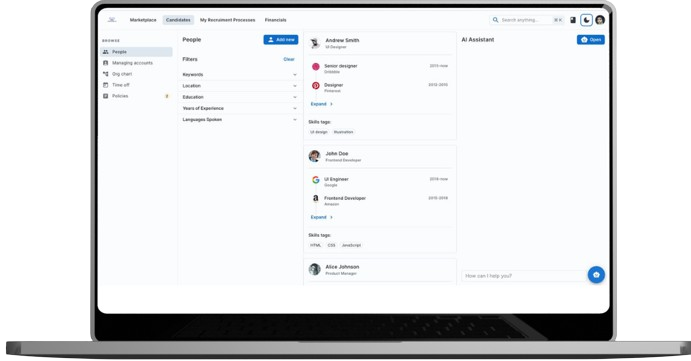
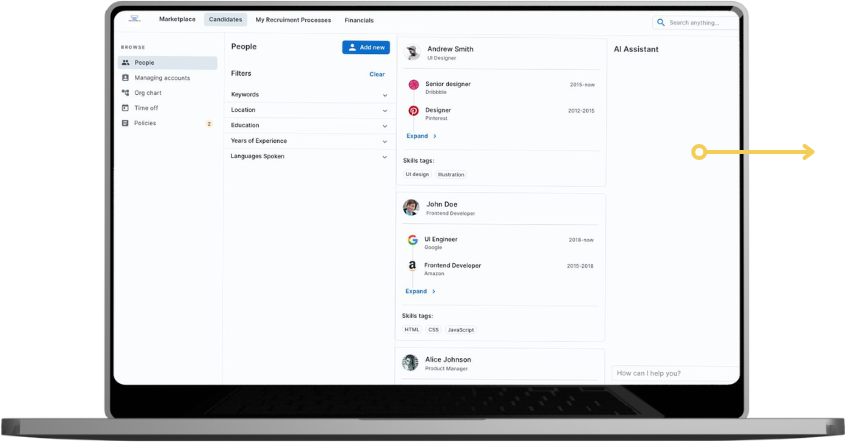
update

diff --git a/src/components/Hero/Hero.js b/src/components/Hero/Hero.js
@@ -12,69 +12,6 @@ const Hero = () => {
     Aos.init();
   }, []);
 
-  // const [isOpen, setIsOpen] = useState(false);
-  // const [isTeleOpen, setTeleIsOpen] = useState(false);
-  // const [selectedOption, setSelectedOption] = useState("");
-  // const [selectedTeleOption, setSelectedTeleOption] = useState("");
-
-  // const [isCountryOpen, setIsCountryOpen] = useState("");
-  // const [selectedCountryOption, setSelectedCountryOption] = useState("");
-
-  // const dropdownRef = useRef(null);
-  // const codeRef = useRef(null);
-  // const countryRef = useRef(null);
-
-  // const options = [
-  //   "Reclutador independiente",
-  //   "Empresa de reclutamiento",
-  //   "Reclutador interno de empresa",
-  // ];
-
-  // const handleDropdownClick = () => {
-  //   setIsOpen(!isOpen);
-  // };
-
-  // const handleOptionClick = (option) => {
-  //   setSelectedOption(option);
-  //   setIsOpen(false);
-  // };
-
-  // // Coutry Code Dropdown
-  // const coutryCode = ["+54", "+56", "+57", "+52", "+51", "+598", "+1", "+43"];
-
-  // const handleCodeDropdownClick = () => {
-  //   setTeleIsOpen(!isOpen);
-  // };
-
-  // const handleCodeOptionClick = (option) => {
-  //   setSelectedTeleOption(option);
-  //   setTeleIsOpen(false);
-  // };
-
-  // // Coutry Dropdown
-  // const coutry = ["+92", "+101", "+463"];
-
-  // const handleCountryDropdownClick = () => {
-  //   setIsCountryOpen(!isOpen);
-  // };
-
-  // const handleCountryOptionClick = (option) => {
-  //   setSelectedCountryOption(option);
-  //   setIsCountryOpen(false);
-  // };
-
-  // const handleClickOutside = (event) => {
-  //   if (dropdownRef.current && !dropdownRef.current.contains(event.target)) {
-  //     setIsOpen(false);
-  //   }
-  // };
-
-  // useEffect(() => {
-  //   document.addEventListener("mousedown", handleClickOutside);
-  //   return () => {
-  //     document.removeEventListener("mousedown", handleClickOutside);
-  //   };
-  // }, []);
 
   const [selectedCoutryCode, setSelectedCoutryCode] = useState("");
   const [isCountryCodeOpen, setIsCountryCodeOpen] = useState(false);
@@ -188,7 +125,7 @@ const Hero = () => {
 
         {/* Form  */}
         <div
-          className="w-full sm:w-4/6 lg:w-1/2 bg-[#d9d9d9] rounded-2xl p-3"
+          className="w-full sm:w-4/6 lg:w-1/2 bg-[#d9d9d9] bg-opacity-50 rounded-2xl p-3"
           data-aos="fade-up"
           data-aos-duration="300"
         >
@@ -357,14 +294,14 @@ const Hero = () => {
               </div>
             </div>
 
-            <button className="bg-yellow-100 font-bold text-lg text-center h-12 tracking-[.2em] mt-3 w-full rounded-xl text-white uppercase">
-              Submit
+            <button className="bg-yellow-100 hover:bg-yellow-500 transition duration-500 font-bold text-lg text-center h-12 tracking-[.2em] mt-3 w-full rounded-xl text-white uppercase">
+              Enviar
             </button>
           </form>
 
           <div className="bg-blue-100 rounded-xl text-base md:text-[25px] leading-[1.37085934em] text-center text-white px-10 md:px-20 py-3 md:py-5 mt-5 w-fit lg:w-full mx-auto">
             Conviértete en
-            <strong className="text-yellow-100 font-normal">
+            <strong className="text-yellow-100 font-normal mx-1">
               Early Partner
             </strong>
             y obtén increíbles beneficios
@@ -372,14 +309,14 @@ const Hero = () => {
         </div>
       </div>
 
-      <div className="flex flex-col lg:flex-row justify-between gap-3 border-y border-y-yellow-100 py-5 mt-10">
-        <span className="text-[31px] font-extrabold text-blue-100">
+      <div className="flex flex-col lg:flex-row justify-between gap-2 border-y border-y-yellow-100 py-5 mt-10 max-w-[1190px] w-full mx-auto">
+        <span className="text-[30px] md:text-[32px] xxl:text-[35px] font-extrabold text-blue-100">
           ATS fácil de usar<span className="text-yellow-100">.</span>
         </span>
-        <span className="text-[23px] md:text-[31px] font-extrabold text-blue-100">
+        <span className="text-[23px] md:text-[32px] xxl:text-[35px] font-extrabold text-blue-100">
           Agentes IA especializados<span className="text-yellow-100">.</span>
         </span>
-        <span className="text-[23px] md:text-[31px] font-extrabold text-blue-100">
+        <span className="text-[23px] md:text-[32px] xxl:text-[35px] font-extrabold text-blue-100">
           Oportunidades de negocio<span className="text-yellow-100">.</span>
         </span>
       </div>

diff --git a/src/components/Experience/Experience.js b/src/components/Experience/Experience.js
@@ -13,12 +13,12 @@ const Experience = () => {
     Aos.init();
   }, []);
   return (
-    <section className="w-full bg-blue-100 px-3 py-10 md:py-14">
-      <div className="w-full max-w-[1600px] mx-auto relative">
+    <section className="w-full bg-blue-100 px-3 py-10 md:py-14 relative">
+      <div className="w-full max-w-[1600px] mx-auto ">
         <img
           src={Corner}
           alt="corner"
-          className="absolute left-0 -top-5 hidden lg:block"
+          className="absolute left-0 top-10 hidden lg:block"
         />
         <div className="w-full max-w-[1400px] mx-auto">
           <p
@@ -31,61 +31,13 @@ const Experience = () => {
           </p>
 
           <div className="flex justify-center lg:justify-between flex-col gap-5 md:mb-5 lg:flex-row mt-10 md:mt-20">
-            <div className="flex-1 relative justify-center" data-aos="zoom-in">
+            <div className="flex-1 justify-center" data-aos="zoom-in">
               <div className="h-auto lg:h-[440px] bg-cover">
                 <img
                   src={FrontMarketplace}
                   alt="FrontMarketplace"
                   className="w-full h-full mb-5 lg:mb-0"
                 />
-              </div>
-              <div className="w-[105px] h-[13px] absolute top-28 hidden lg:block lg:right-[30px]">
-                <svg
-                  id="KENx0yueIJnFLivt"
-                  viewBox="0 0 123.3457513047141 16.0"
-                  preserveAspectRatio="none"
-                  style={{
-                    display: "block",
-                    width: "100%",
-                    height: "100%",
-                    overflow: "visible",
-                    opacity: "1.0",
-                    minHeight: "1px",
-                    stroke: "#f4cd59",
-                    fill: "#f4cd59",
-                  }}
-                >
-                  <g id="tw8DxwfuGwYEw6Dn">
-                    <path
-                      d="M15,8 L121.3457513,8"
-                      style={{
-                        fill: "None",
-                        strokeWidth: "4px",
-                        strokeLinecap: "butt",
-                      }}
-                    ></path>
-                    <path
-                      id="ia1nxI04juoQdjeX"
-                      d="M2,8 C2,11.3137085 4.6862915,14 8,14 C11.3137085,14 14,11.3137085 14,8 C14,4.6862915 11.3137085,2 8,2 C4.6862915,2 2,4.6862915 2,8"
-                      style={{
-                        strokeLinejoin: "round",
-                        strokeLinecap: "round",
-                        strokeWidth: "4px",
-                        fill: "none",
-                      }}
-                    ></path>
-                    <path
-                      id="YsQy1KMsNerjefwP"
-                      d="M113.3457513,2 L121.3457513,8 L113.3457513,14"
-                      style={{
-                        strokeLinejoin: "round",
-                        strokeLinecap: "round",
-                        strokeWidth: "4px",
-                        fill: "none",
-                      }}
-                    ></path>
-                  </g>
-                </svg>
               </div>
             </div>
 
@@ -105,7 +57,7 @@ const Experience = () => {
                 spy={true}
                 smooth={true}
                 duration={500}
-                className="bg-yellow-100 rounded-[100px] flex justify-between items-center gap-2 px-3 md:px-4 md:pl-10 text-white text-lg md:text-[25px] w-full xs:w-[315px] h-12 md:h-[63px] cursor-pointer mt-10"
+                className="bg-yellow-100 rounded-[100px] flex justify-between items-center gap-2 px-3 md:px-4 md:pl-10 text-white text-lg md:text-[25px] w-full xs:w-[315px] hover:bg-yellow-500 transition duration-500 h-12 md:h-[63px] cursor-pointer mt-10"
               >
                 <span>Quiero probarlo</span>
                 <div className="w-9 md:w-10 h-9 md:h-10 rounded-full flex justify-center items-center text-center bg-white text-yellow-100">

diff --git a/src/components/Marketplace/Marketplace.js b/src/components/Marketplace/Marketplace.js
@@ -28,62 +28,13 @@ const Marketplace = () => {
           </p>
         </div>
 
-        <div className="relative flex-1" data-aos="zoom-in">
+        <div className="flex-1" data-aos="zoom-in">
           <div className="h-auto lg:h-[400px] bg-cover w-full">
             <img
               src={FrontMarketplace}
               alt="FrontMarketplace"
               className="w-full h-full mt-5 lg:mt-0"
             />
-
-            <div className="w-20 md:w-40 h-2 md:h-[14px] hidden lg:block absolute top-48 left-6">
-              <svg
-                id="XhSsc6j0ApUtsuxb"
-                viewBox="0 0 178.0124179713805 16.000000000000057"
-                preserveAspectRatio="none"
-                style={{
-                  display: "block",
-                  width: "100%",
-                  height: "100%",
-                  overflow: "visible",
-                  opacity: "1.0",
-                  minHeight: "1px",
-                  stroke: "#5271ff",
-                  fill: "#5271ff",
-                }}
-              >
-                <g id="YTob4XudFEG04PHt">
-                  <path
-                    d="M163.01241797,8 L2,8"
-                    style={{
-                      fill: "None",
-                      strokeWidth: "4px",
-                      strokeLinecap: "butt",
-                    }}
-                  ></path>
-                  <path
-                    id="L2BfKaBAjp7ijW5Q"
-                    d="M176.01241797,8 C176.01241797,4.6862915 173.32612647,2 170.01241797,2 C166.69870947,2 164.01241797,4.6862915 164.01241797,8 C164.01241797,11.3137085 166.69870947,14 170.01241797,14 C173.32612647,14 176.01241797,11.3137085 176.01241797,8"
-                    style={{
-                      strokeLinejoin: "round",
-                      strokeLinecap: "round",
-                      strokeWidth: "4px",
-                      fill: "none",
-                    }}
-                  ></path>
-                  <path
-                    id="RBxOaZFbUQiX6604"
-                    d="M10,14 L2,8 L10,2"
-                    style={{
-                      strokeLinejoin: "round",
-                      strokeLinecap: "round",
-                      strokeWidth: "4px",
-                      fill: "none",
-                    }}
-                  ></path>
-                </g>
-              </svg>
-            </div>
           </div>
         </div>
       </div>

diff --git a/src/components/Contact/Contact.js b/src/components/Contact/Contact.js
@@ -1,6 +1,6 @@
 import React, { useEffect } from "react";
 import { Link as ScrollLink } from "react-scroll";
-import Corner from "../../assets/corner.png"
+import Corner from "../../assets/corner.png";
 
 // AOS Animation
 import Aos from "aos";
@@ -12,17 +12,18 @@ const Contact = () => {
   }, []);
   return (
     <section className="w-full px-3 py-4 md:py-10 bg-blue-100 relative">
-      <img src={Corner} alt="corner" className="absolute left-16 top-14 hidden md:block" />
-      <div className="w-full max-w-5xl mx-auto flex justify-between md:items-center gap-10 md:gap-3">
-        <div
-          className="flex justify-center flex-col gap-0"
-          data-aos="zoom-in"
-        >
+      <img
+        src={Corner}
+        alt="corner"
+        className="absolute left-0 top-12 hidden md:block "
+      />
+      <div className="w-[60%] mx-auto flex justify-between md:items-center gap-10 md:gap-3">
+        <div className="flex justify-center flex-col gap-0" data-aos="zoom-in">
           <h2 className="text-white sm:text-[39px] text-[9px] break-words">
             THESTRAINER.CO
           </h2>
           <span className="text-white text-[8px] sm:text-[37px]">
-            Recruitment made easy.
+            Recruitment made easy<span className="text-yellow-100">.</span>
           </span>
         </div>
         <ScrollLink
@@ -30,10 +31,11 @@ const Contact = () => {
           spy={true}
           smooth={true}
           duration={500}
-          className="bg-white text-blue-100 w-[70px] sm:w-[190px] mt-[0.4rem] h-4 sm:h-[47px] rounded-[50px] text-[8px] sm:text-[18px] flex justify-center items-center cursor-pointer"
+          style={{transition: ".5s"}}
+          className="bg-white hover:bg-yellow-500 transition hover:text-white text-blue-100 w-[70px] font-bold px-2 sm:w-[190px] mt-[0.4rem] h-4 sm:h-[47px] rounded-[50px] text-[8px] sm:text-[18px] flex justify-center items-center cursor-pointer"
           data-aos="zoom-in"
         >
-          Contáctanos
+          <span>Contáctanos</span>
         </ScrollLink>
       </div>
     </section>

diff --git a/src/components/Timeline/Timeline.js b/src/components/Timeline/Timeline.js
@@ -19,7 +19,7 @@ const Timeline = () => {
   }, []);
 
   return (
-    <section className="relative w-full md:w-[90%] mx-auto mb-20">
+    <section className="relative w-full mx-auto mb-20">
       <div className="text-center w-full max-w-6xl mx-auto px-3 py-5 md:py-10">
         <div
           className="text-xl md:text-[42px] leading-[1em] mb-14"
@@ -133,7 +133,8 @@ const Timeline = () => {
           smooth={true}
           duration={500}
           data-aos="fade-up"
-          className="bg-blue-100 rounded-[100px] flex justify-between items-center gap-2 px-3 md:px-4 pl-7 md:pl-12 text-white text-[24px] md:text-[33px] md:w-auto w-full md:max-w-[422px] h-[60px] md:h-20 cursor-pointer mx-auto mt-10 md:mt-20"
+          style={{transition: ".5s"}}
+          className="bg-blue-100 hover:bg-blue-700 transition duration-1000 rounded-[100px] flex justify-between items-center gap-2 px-3 md:px-4 pl-7 md:pl-12 text-white text-[24px] md:text-[33px] md:w-auto w-full md:max-w-[422px] h-[60px] md:h-20 cursor-pointer mx-auto mt-10 md:mt-20"
         >
           Quiero saber más
           <div className="w-9 md:w-12 h-9 md:h-12 rounded-full flex justify-center items-center text-center bg-yellow-100 text-blue-100">
@@ -145,7 +146,7 @@ const Timeline = () => {
       <img
         src={BlueCorner}
         alt="BlueCorner"
-        className="absolute right-0 bottom-0 hidden md:block"
+        className="absolute right-0 bottom-0 hidden lg:block"
       />
     </section>
   );

diff --git a/src/components/Partner/Partner.js b/src/components/Partner/Partner.js
@@ -98,7 +98,8 @@ const Partner = () => {
         smooth={true}
         duration={500}
         data-aos="fade-up"
-        className="bg-blue-100 rounded-[100px] flex justify-between items-center gap-2 px-3 md:px-4 pl-7 md:pl-12 text-white text-[24px] md:text-[33px] md:w-auto w-full md:max-w-[422px] h-[60px] md:h-20 cursor-pointer mx-auto mt-10 md:mt-20"
+        style={{transition: ".5s"}}
+        className="bg-blue-100 hover:bg-blue-700 transition duration-1000 rounded-[100px] flex justify-between items-center gap-2 px-3 md:px-4 pl-7 md:pl-12 text-white text-[24px] md:text-[33px] md:w-auto w-full md:max-w-[422px] h-[60px] md:h-20 cursor-pointer mx-auto mt-10 md:mt-20"
       >
         Quiero ser partner
         <div className="w-9 md:w-12 h-9 md:h-12 rounded-full flex justify-center items-center text-center bg-yellow-100 text-blue-100">

diff --git a/src/components/Subscribe/Subscribe.js b/src/components/Subscribe/Subscribe.js
@@ -28,10 +28,11 @@ const Subscribe = () => {
           spy={true}
           smooth={true}
           duration={500}
-          className="bg-white text-blue-100 cursor-pointer w-40 sm:w-[190px] h-10 sm:h-[47px] rounded-[50px] text-lg sm:text-[21px flex justify-center items-center"
+          style={{transition: ".5s"}}
+          className="bg-white hover:bg-yellow-100 transition duration-1000 hover:text-white text-blue-100 cursor-pointer w-40 sm:w-[190px] h-10 sm:h-[47px] rounded-[50px] text-lg sm:text-[21px flex justify-center items-center"
           data-aos="zoom-in"
         >
-          Suscribete
+          <span>Suscribete</span>
         </ScrollLink>
       </div>
     </section>

diff --git a/src/App.css b/src/App.css
@@ -40,3 +40,7 @@ span {
   background: linear-gradient(90deg, #00C4CC 0%, #7D2AE8 100%);
   transition: opacity 0.2s;
 }
+
+.heroyellow-line{
+  font-size: max(calc(12px * var(--rfso, var(--bfso, 1))), calc(2.63871631em - var(--ffsd)));
+}

diff --git a/tailwind.config.js b/tailwind.config.js
@@ -21,6 +21,7 @@ module.exports = {
         "modalshadow": "0px 2px 18px 0px rgba(14, 19, 24, 0.25), 0px 0px 1px 0px rgba(14, 19, 24, 0.02)"
       },
       screens: {
+        "xxl": "1200px",
         "xs": "340px",
       }
     },
